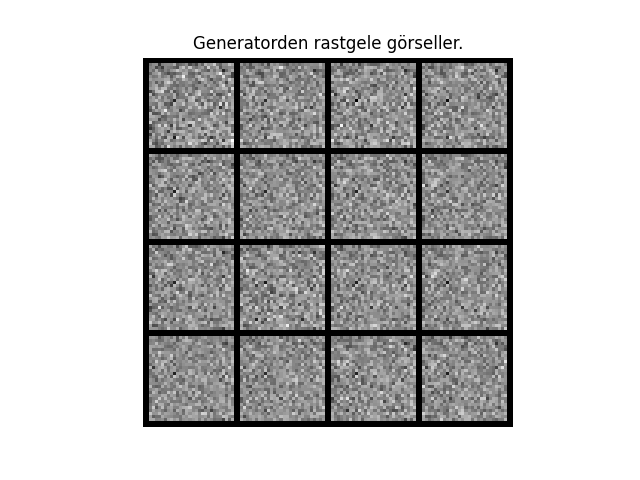
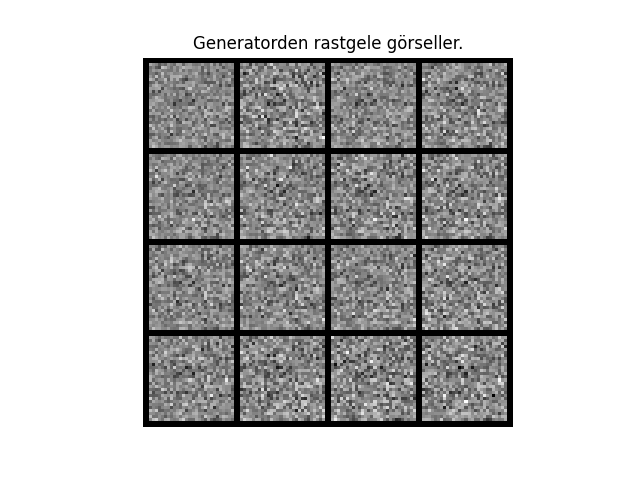
discriminator

Changed region(s): [[0.2188, 0.125, 0.8125, 0.875]]

diff --git a/gan-project/main.py b/gan-project/main.py
@@ -2,6 +2,7 @@ from torchvision import datasets, transforms
 from torch.utils.data import DataLoader
 import generator
 import torch
+
 transform =  transforms.Compose([
     transforms.ToTensor(), # PyTorch tensörüne çevir.
     transforms.Normalize((0.5,), (0.5,)) # Normalize et.
@@ -11,10 +12,11 @@ dataset = datasets.FashionMNIST(root="./data", train=True, download=True, transf
 
 # verileri küçük gruplar halinde hazırla (Batch)
 dataloader = DataLoader(dataset, batch_size=128, shuffle=True)  
+device = "cuda" if torch.cuda.is_available() else "cpu"
 
 # Generator-Discriminator
 
-device = "cuda" if torch.cuda.is_available() else "cpu"
+
 
 G = generator.Generator().to(device)
 
@@ -23,23 +25,5 @@ G.eval() # Modeli inference moduna al. -> Üretim moduna.
 #16 farklı hayali gürültü vektörü oluştur.
 noise = torch.randn(16, 100).to(device)
 
-with torch.no_grad():
-    fake_images = G(noise)
 
-from torchvision import utils
-
-grid = utils.make_grid(fake_images, nrow=4, normalize=True)
-npimg = grid.cpu().numpy().transpose((1,2,0))
-
-import os
-import matplotlib.pyplot as plt
-
-os.makedirs("generated_fake_imgs", exist_ok=True)
-plt.imshow(npimg)
-plt.title("Generatorden rastgele görseller.")
-plt.axis("off")
-plt.savefig("generated_fake_imgs/fake_images.png")
-plt.show()
-
-#Discrimantoru yazalım.
-#20.30
+# Discriminator -> Generatorün oluşturduğu yapıları eleştirmek.

diff --git a/gan-project/discriminator.py b/gan-project/discriminator.py
@@ -1,0 +1,22 @@
+from torch import nn
+
+# Çıktı -> 0-1 arası bir class (gerçek-sahte)
+class Discriminator(nn.Module):
+    def __init__(self):
+        super().__init__()
+        # Kapasite (Modelin Öğrenme Gücü)
+        self.net = nn.Sequential(
+            nn.Flatten(), #Görseli düzleştir.
+            nn.Linear(28*28, 512),
+            nn.LeakyReLU(0.2), # Gradient Vanishing
+            nn.Linear(512, 256),
+            nn.LeakyReLU(0.2),
+            nn.Linear(256, 1),
+            nn.Sigmoid() # 0-1 classification
+        )
+    def forward(self, x):
+        return self.net(x)
+
+        # 784 -> 512 -> 256 -> 1
+
+        # CNN + bir çok katman 2048+

diff --git a/gan-project/generator.py b/gan-project/generator.py
@@ -1,6 +1,6 @@
-from torch import nn
+from torch import nn # neural network
 
-class Generator(nn.Module):
+class Generator(nn.Module): #Kalıtım
     def __init__(self):
         super().__init__() #Pytorch base NN'ü kendi kodlarını çalıştır.
         self.net = nn.Sequential(
